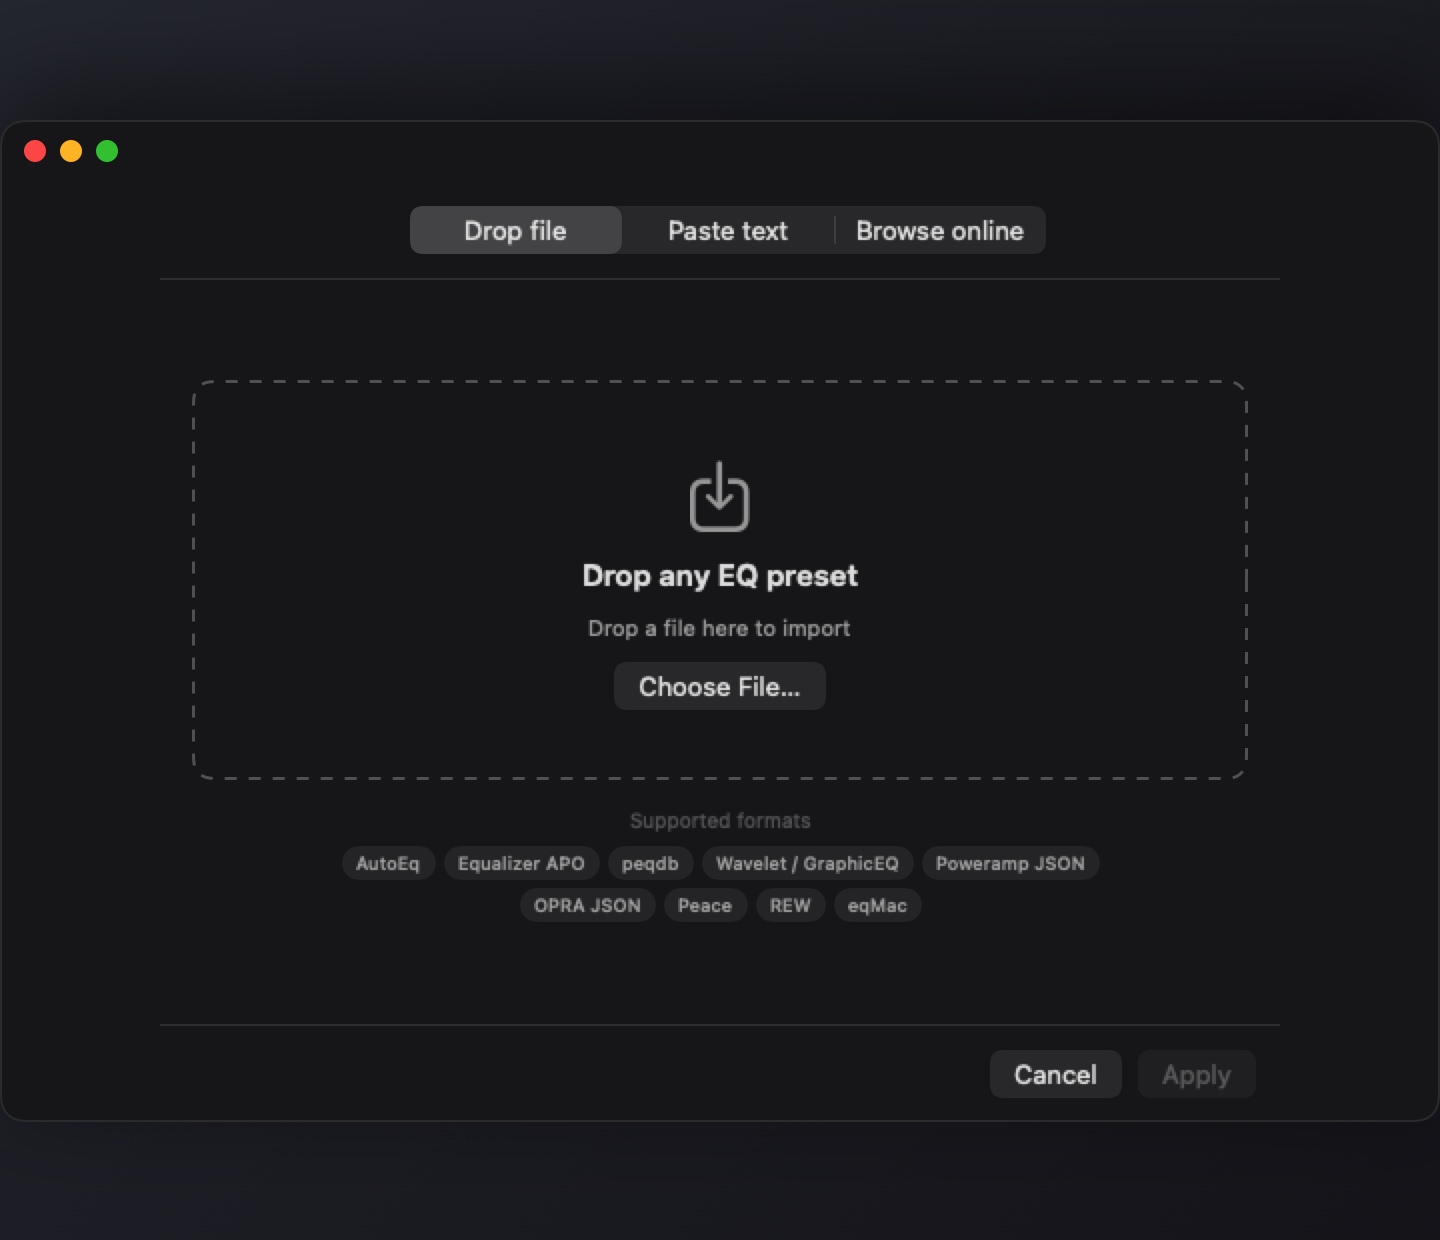
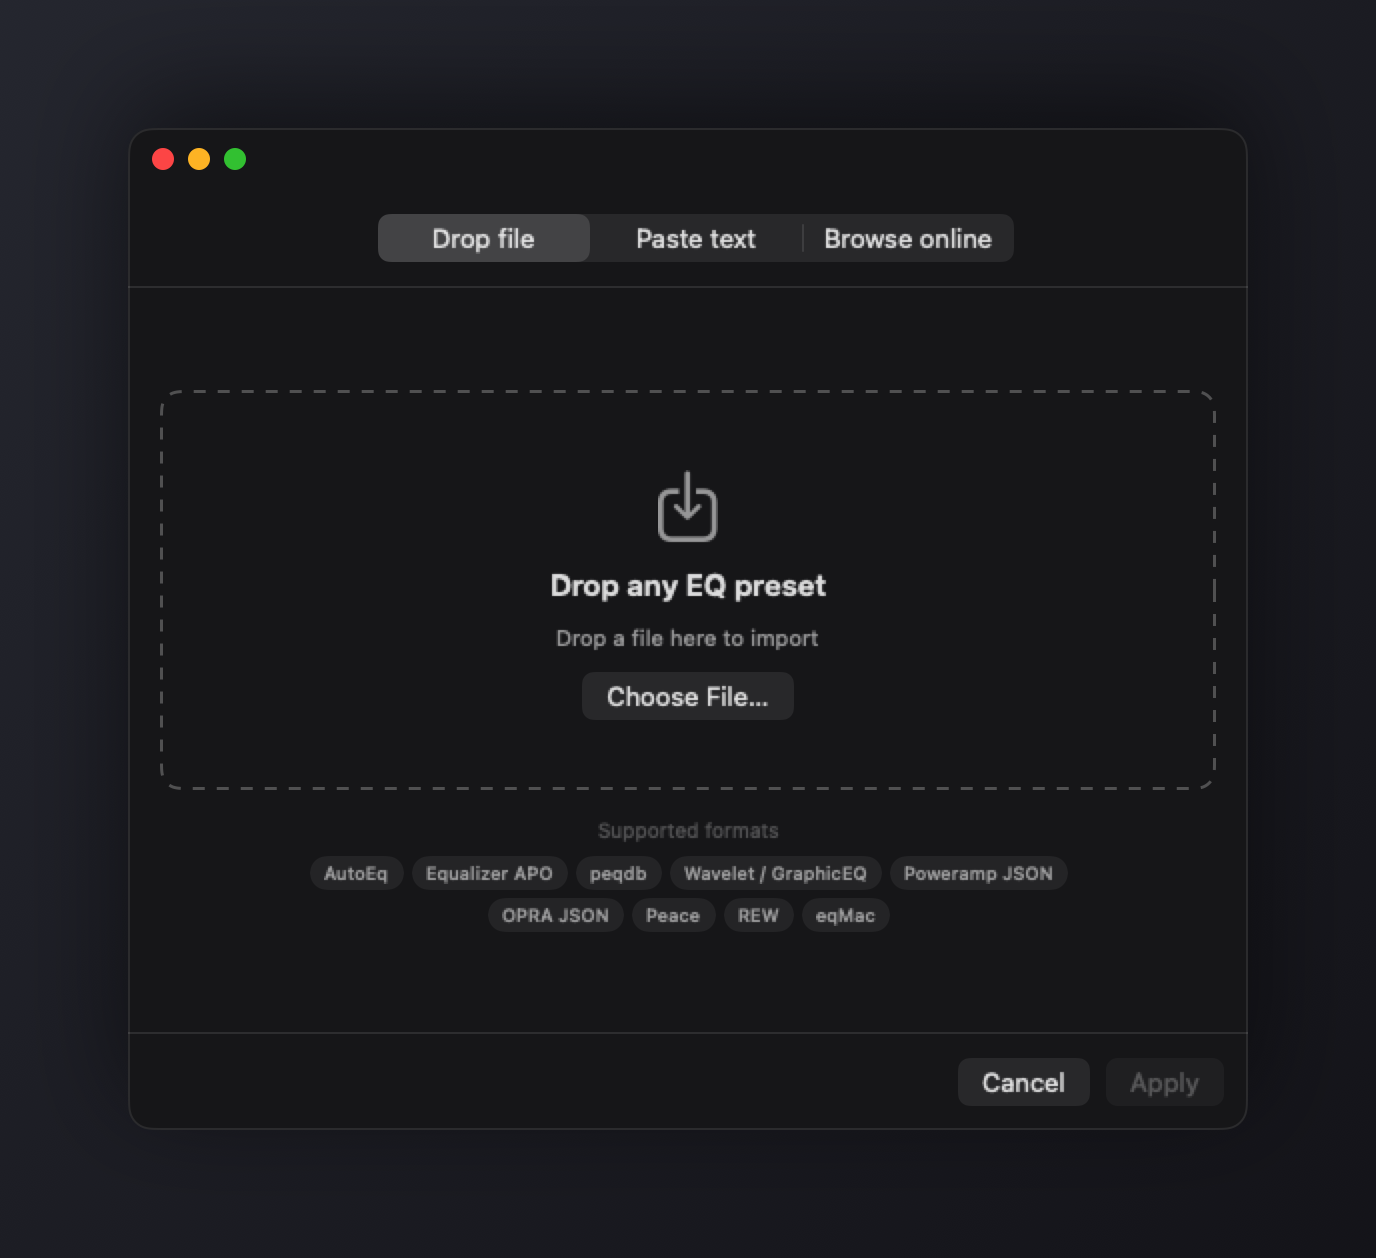
Center screenshots with equal margins on all sides

diff --git a/Sources/OnlyEQ/App/ScreenshotRenderer.swift b/Sources/OnlyEQ/App/ScreenshotRenderer.swift
@@ -28,19 +28,16 @@ enum ScreenshotRenderer {
         var failures = 0
         failures += capture(
             canvas(PopoverView().environmentObject(state).frame(width: 360), panelRadius: 16),
-            size: NSSize(width: 560, height: 620),
             to: dir.appendingPathComponent("popover.png")
         ) ? 0 : 1
 
         failures += capture(
-            canvas(windowChrome(EditorView().environmentObject(state).frame(width: 840, height: 540)), panelRadius: 12),
-            size: NSSize(width: 960, height: 680),
+            canvas(windowChrome(EditorView().environmentObject(state).frame(width: 840, height: 540), width: 840), panelRadius: 12),
             to: dir.appendingPathComponent("editor.png")
         ) ? 0 : 1
 
         failures += capture(
-            canvas(windowChrome(ImportSheet().environmentObject(state)), panelRadius: 12),
-            size: NSSize(width: 720, height: 620),
+            canvas(windowChrome(ImportSheet().environmentObject(state), width: 560), panelRadius: 12),
             to: dir.appendingPathComponent("import.png")
         ) ? 0 : 1
 
@@ -51,28 +48,33 @@ enum ScreenshotRenderer {
     // MARK: - Styling
 
     /// Gradient backdrop with the content floating on a shadowed panel.
-    private static func canvas(_ content: some View, panelRadius: CGFloat) -> some View {
-        ZStack {
-            LinearGradient(
-                colors: [Color(red: 0.19, green: 0.20, blue: 0.24), Color(red: 0.10, green: 0.10, blue: 0.13)],
-                startPoint: .topLeading, endPoint: .bottomTrailing
+    /// Equal margins on all sides by construction — the capture window sizes
+    /// itself from this view's fitting size.
+    private static func canvas(_ content: some View, panelRadius: CGFloat, margin: CGFloat = 64) -> some View {
+        content
+            .background(
+                RoundedRectangle(cornerRadius: panelRadius, style: .continuous)
+                    .fill(Color(red: 0.115, green: 0.115, blue: 0.125))
             )
-            content
-                .background(
-                    RoundedRectangle(cornerRadius: panelRadius, style: .continuous)
-                        .fill(Color(red: 0.115, green: 0.115, blue: 0.125))
+            .clipShape(RoundedRectangle(cornerRadius: panelRadius, style: .continuous))
+            .overlay(
+                RoundedRectangle(cornerRadius: panelRadius, style: .continuous)
+                    .strokeBorder(Color.white.opacity(0.09), lineWidth: 1)
+            )
+            .shadow(color: .black.opacity(0.5), radius: 28, y: 14)
+            .padding(margin)
+            .background(
+                LinearGradient(
+                    colors: [Color(red: 0.19, green: 0.20, blue: 0.24), Color(red: 0.10, green: 0.10, blue: 0.13)],
+                    startPoint: .topLeading, endPoint: .bottomTrailing
                 )
-                .clipShape(RoundedRectangle(cornerRadius: panelRadius, style: .continuous))
-                .overlay(
-                    RoundedRectangle(cornerRadius: panelRadius, style: .continuous)
-                        .strokeBorder(Color.white.opacity(0.09), lineWidth: 1)
-                )
-                .shadow(color: .black.opacity(0.5), radius: 28, y: 14)
-        }
+            )
     }
 
-    /// Fake macOS title bar (traffic lights) above the content.
-    private static func windowChrome(_ content: some View) -> some View {
+    /// Fake macOS title bar (traffic lights) above the content. The explicit
+    /// width matters: the Spacer in the title row would otherwise expand the
+    /// panel to fill the whole canvas.
+    private static func windowChrome(_ content: some View, width: CGFloat) -> some View {
         VStack(spacing: 0) {
             HStack(spacing: 7) {
                 Circle().fill(Color(red: 1.0, green: 0.37, blue: 0.34)).frame(width: 11, height: 11)
@@ -84,6 +86,7 @@ enum ScreenshotRenderer {
             .padding(.vertical, 10)
             content
         }
+        .frame(width: width)
     }
 
     // MARK: - Offscreen capture
@@ -97,7 +100,9 @@ enum ScreenshotRenderer {
     /// Render in a real NSWindow (positioned far off-screen, but key, so
     /// AppKit-backed controls draw with their active tint), then snapshot the
     /// view hierarchy at Retina scale.
-    private static func capture(_ view: some View, size: NSSize, to url: URL) -> Bool {
+    private static func capture(_ view: some View, to url: URL) -> Bool {
+        let hosting = NSHostingController(rootView: view.environment(\.colorScheme, .dark))
+        let size = hosting.view.fittingSize
         let window = KeyableWindow(
             contentRect: NSRect(origin: NSPoint(x: -4000, y: -4000), size: size),
             styleMask: [.borderless],
@@ -105,9 +110,7 @@ enum ScreenshotRenderer {
         )
         window.appearance = NSAppearance(named: .darkAqua)
         window.isReleasedWhenClosed = false
-        window.contentViewController = NSHostingController(
-            rootView: view.environment(\.colorScheme, .dark).frame(width: size.width, height: size.height)
-        )
+        window.contentViewController = hosting
         window.setContentSize(size)
         window.setFrameOrigin(NSPoint(x: -4000, y: -4000))
         window.makeKeyAndOrderFront(nil)